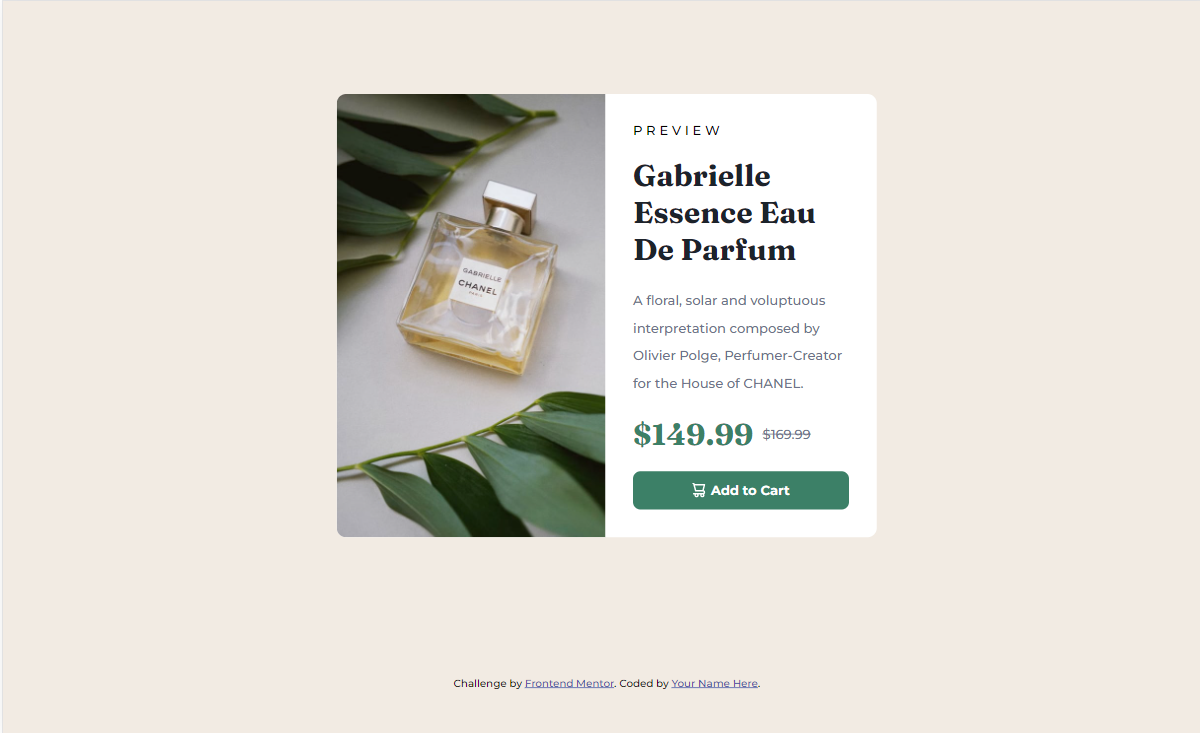
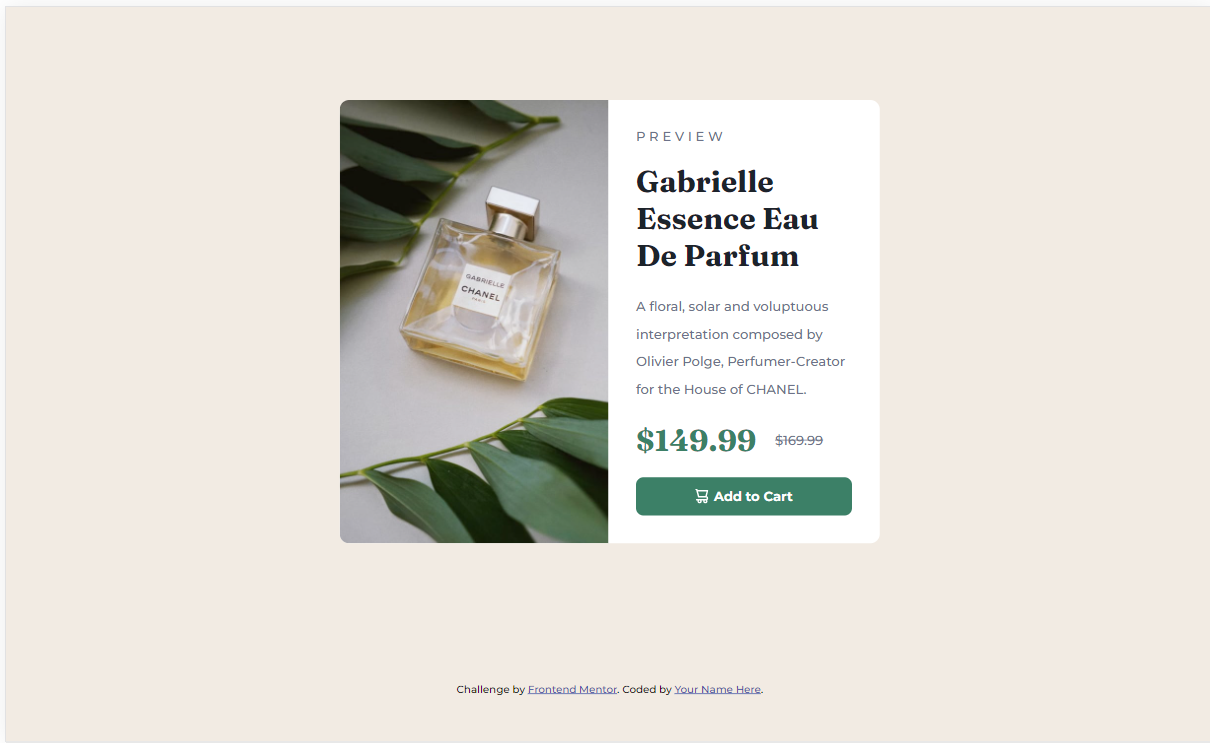
Designs

diff --git a/style.css b/style.css
@@ -66,6 +66,7 @@ body {
   text-transform: uppercase;
   letter-spacing: 4px;
   font-size: 14px;
+  color: var(--Dark-grayish-blue);
 }
 
 .item-title {
@@ -119,7 +120,7 @@ button:hover {
   font-size: 32px;
   font-weight: 700;
   color: var(--Dark-cyan);
-  margin-right: 10px;
+  margin-right: 20px;
 }
 
 .price2 {
